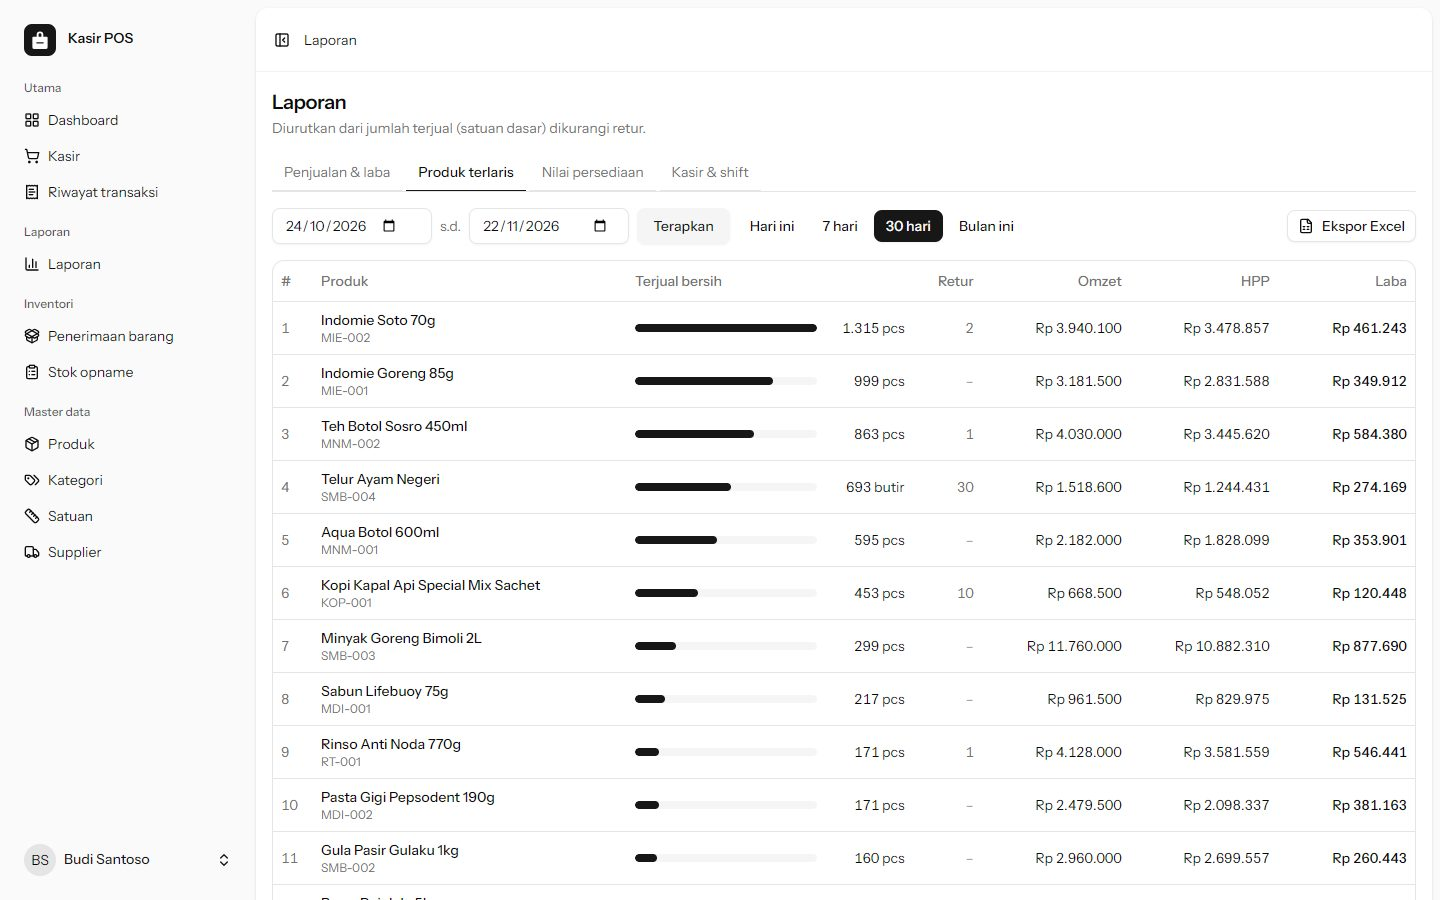
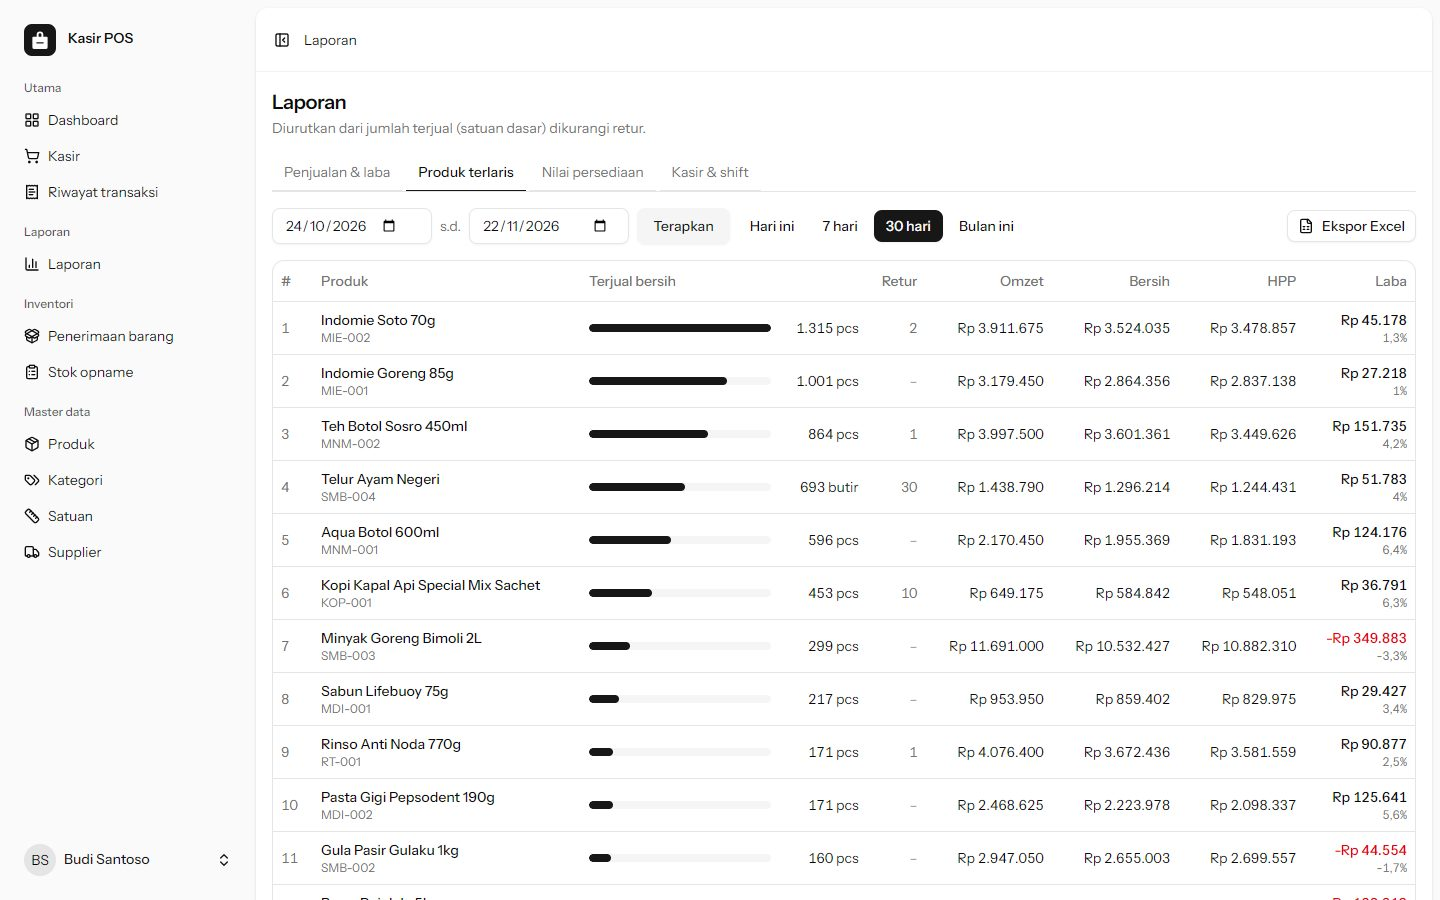
Compute best-seller profit like the sales report: without PPN, net of returns
TopProducts reported profit as line_total - HPP, which kept PPN, ignored
the transaction discount and did not take refunds off revenue, so its
profit column added up to millions while the sales report showed the
real gross profit. Each sale's total and PPN are now split over its lines
(and each refund's PPN over its lines) by largest remainder, giving per
product: revenue paid net of refunds, net sales without PPN, HPP, profit
and margin. Revenue and net sales add up to SalesSummary exactly; HPP is
rounded per product.

The largest-remainder split moves to App\Support\Apportion, which
ProcessSaleReturn::lineShares now uses (behaviour unchanged). The page
and Excel export gain net sales and margin columns.

diff --git a/resources/js/pages/reports/products.tsx b/resources/js/pages/reports/products.tsx
@@ -12,6 +12,7 @@ import {
 } from '@/components/ui/table';
 import { formatQty } from '@/lib/format';
 import { formatRupiah } from '@/lib/money';
+import { cn } from '@/lib/utils';
 import products from '@/routes/products';
 import reports from '@/routes/reports';
 
@@ -24,8 +25,10 @@ export type TopProductRow = {
     returnedQty: number;
     netQty: number;
     revenue: number;
+    netSales: number;
     cogs: number;
     profit: number;
+    margin: number;
 };
 
 export default function ProductsReport({
@@ -73,6 +76,9 @@ export default function ProductsReport({
                                     Omzet
                                 </TableHead>
                                 <TableHead className="text-right">
+                                    Bersih
+                                </TableHead>
+                                <TableHead className="text-right">
                                     HPP
                                 </TableHead>
                                 <TableHead className="text-right">
@@ -84,7 +90,7 @@ export default function ProductsReport({
                             {rows.length === 0 && (
                                 <TableRow>
                                     <TableCell
-                                        colSpan={7}
+                                        colSpan={8}
                                         className="py-10 text-center text-muted-foreground"
                                     >
                                         Belum ada penjualan di rentang tanggal
@@ -135,10 +141,24 @@ export default function ProductsReport({
                                         {formatRupiah(r.revenue)}
                                     </TableCell>
                                     <TableCell className="text-right whitespace-nowrap tabular-nums">
+                                        {formatRupiah(r.netSales)}
+                                    </TableCell>
+                                    <TableCell className="text-right whitespace-nowrap tabular-nums">
                                         {formatRupiah(r.cogs)}
                                     </TableCell>
-                                    <TableCell className="text-right font-medium whitespace-nowrap tabular-nums">
-                                        {formatRupiah(r.profit)}
+                                    <TableCell className="text-right whitespace-nowrap tabular-nums">
+                                        <div
+                                            className={cn(
+                                                'font-medium',
+                                                r.profit < 0 &&
+                                                    'text-destructive',
+                                            )}
+                                        >
+                                            {formatRupiah(r.profit)}
+                                        </div>
+                                        <div className="text-xs text-muted-foreground">
+                                            {`${r.margin.toLocaleString('id-ID')}%`}
+                                        </div>
                                     </TableCell>
                                 </TableRow>
                             ))}
@@ -146,9 +166,11 @@ export default function ProductsReport({
                     </Table>
                 </div>
                 <p className="text-xs text-muted-foreground">
-                    Omzet per produk memakai total baris (setelah diskon item,
-                    sebelum diskon transaksi; termasuk PPN bila harga sudah
-                    termasuk PPN).
+                    Omzet = yang dibayar pelanggan untuk produk ini (bagian dari
+                    total transaksi setelah diskon, termasuk PPN) dikurangi
+                    refund. Bersih = omzet tanpa PPN. Laba = bersih − HPP, sama
+                    seperti laporan penjualan &amp; laba (HPP dibulatkan per
+                    produk, jadi totalnya bisa selisih beberapa rupiah).
                 </p>
             </div>
         </>

diff --git a/app/Reports/TopProducts.php b/app/Reports/TopProducts.php
@@ -3,73 +3,109 @@
 namespace App\Reports;
 
 use App\Enums\SaleStatus;
+use App\Support\Apportion;
 use App\Support\DateRange;
+use App\Support\Decimal;
 use Illuminate\Support\Facades\DB;
 
 /**
  * Best sellers by quantity in base units, net of returns processed in the same period.
- * Revenue is the line totals (after line discounts, before any transaction discount).
+ *
+ * Money follows the sales report (SalesSummary): revenue and netSales add up to its totals
+ * exactly; HPP (4-decimal) is rounded per product, so HPP and profit may differ by a few rupiah.
+ *   revenue   = what customers paid for the product (its share of each sale total, after the
+ *               transaction discount, incl. PPN) − its refunds
+ *   netSales  = the same without PPN (each sale's and refund's PPN shared out the same way)
+ *   profit    = netSales − (HPP sold − HPP returned)
+ * Each sale total and PPN is split across its lines by line total, each refund's PPN across
+ * its lines by amount, all by largest remainder (App\Support\Apportion).
  */
 final class TopProducts
 {
-    /** @return list<array{productId: int, sku: string, name: string, baseUnit: string, soldQty: int, returnedQty: int, netQty: int, revenue: int, cogs: int, profit: int}> */
+    /** @return list<array{productId: int, sku: string, name: string, baseUnit: string, soldQty: int, returnedQty: int, netQty: int, revenue: int, netSales: int, cogs: int, profit: int, margin: float}> */
     public static function build(DateRange $range, int $limit = 20): array
     {
-        $sold = DB::table('sale_items')
+        /** @var array<int, array{qty: int, returnedQty: int, revenue: int, tax: int, cogs: string}> $totals */
+        $totals = [];
+        $add = function (int $productId, string $field, int|string $value) use (&$totals): void {
+            $totals[$productId] ??= ['qty' => 0, 'returnedQty' => 0, 'revenue' => 0, 'tax' => 0, 'cogs' => '0'];
+            if ($field === 'cogs') {
+                $totals[$productId]['cogs'] = Decimal::add($totals[$productId]['cogs'], (string) $value);
+            } else {
+                $totals[$productId][$field] += (int) $value;
+            }
+        };
+
+        $saleLines = DB::table('sale_items')
             ->join('sales', 'sales.id', '=', 'sale_items.sale_id')
             ->where('sales.status', SaleStatus::Completed->value)
             ->where('sales.completed_at', '>=', $range->startsAt())
             ->where('sales.completed_at', '<', $range->endsBefore())
-            ->groupBy('sale_items.product_id')
-            ->selectRaw('sale_items.product_id')
-            ->selectRaw('SUM(sale_items.qty * sale_items.conversion) AS qty')
-            ->selectRaw('SUM(sale_items.line_total) AS revenue')
-            ->selectRaw('SUM(sale_items.cogs) AS cogs')
-            ->get()
-            ->keyBy('product_id');
+            ->orderBy('sale_items.sale_id')
+            ->orderBy('sale_items.id')
+            ->get(['sale_items.sale_id', 'sale_items.product_id', 'sale_items.qty', 'sale_items.conversion',
+                'sale_items.line_total', 'sale_items.cogs', 'sales.total', 'sales.tax_amount']);
 
-        $returned = DB::table('sale_return_items')
+        foreach ($saleLines->groupBy('sale_id') as $lines) {
+            $weights = $lines->map(fn ($l) => (int) $l->line_total)->all();
+            $paid = Apportion::byWeight((int) $lines->first()->total, $weights);
+            $tax = Apportion::byWeight((int) $lines->first()->tax_amount, $weights);
+            foreach ($lines as $i => $line) {
+                $add((int) $line->product_id, 'qty', (int) $line->qty * (int) $line->conversion);
+                $add((int) $line->product_id, 'revenue', $paid[$i]);
+                $add((int) $line->product_id, 'tax', $tax[$i]);
+                $add((int) $line->product_id, 'cogs', (string) ($line->cogs ?? '0'));
+            }
+        }
+
+        $returnLines = DB::table('sale_return_items')
             ->join('sale_returns', 'sale_returns.id', '=', 'sale_return_items.sale_return_id')
             ->where('sale_returns.created_at', '>=', $range->startsAt())
             ->where('sale_returns.created_at', '<', $range->endsBefore())
-            ->groupBy('sale_return_items.product_id')
-            ->selectRaw('sale_return_items.product_id')
-            ->selectRaw('SUM(sale_return_items.qty * sale_return_items.conversion) AS qty')
-            ->selectRaw('SUM(sale_return_items.cogs) AS cogs')
-            ->get()
-            ->keyBy('product_id');
+            ->orderBy('sale_return_items.sale_return_id')
+            ->orderBy('sale_return_items.id')
+            ->get(['sale_return_items.sale_return_id', 'sale_return_items.product_id', 'sale_return_items.qty',
+                'sale_return_items.conversion', 'sale_return_items.amount', 'sale_return_items.cogs', 'sale_returns.tax_amount']);
 
-        $ids = $sold->keys()->merge($returned->keys())->unique()->all();
+        foreach ($returnLines->groupBy('sale_return_id') as $lines) {
+            $tax = Apportion::byWeight((int) $lines->first()->tax_amount, $lines->map(fn ($l) => (int) $l->amount)->all());
+            foreach ($lines as $i => $line) {
+                $add((int) $line->product_id, 'returnedQty', (int) $line->qty * (int) $line->conversion);
+                $add((int) $line->product_id, 'revenue', -(int) $line->amount);
+                $add((int) $line->product_id, 'tax', -$tax[$i]);
+                $add((int) $line->product_id, 'cogs', Decimal::mul('-1', (string) $line->cogs));
+            }
+        }
+
         $products = DB::table('products')
             ->join('units', 'units.id', '=', 'products.base_unit_id')
-            ->whereIn('products.id', $ids)
+            ->whereIn('products.id', array_keys($totals))
             ->get(['products.id', 'products.sku', 'products.name', 'units.name AS unit'])
             ->keyBy('id');
 
         $rows = [];
-        foreach ($ids as $id) {
+        foreach ($totals as $id => $t) {
             $product = $products->get($id);
             if ($product === null) {
                 continue;
             }
-            $s = $sold->get($id);
-            $r = $returned->get($id);
-            $soldQty = (int) ($s->qty ?? 0);
-            $returnedQty = (int) ($r->qty ?? 0);
-            $revenue = Sql::rupiah($s->revenue ?? 0);
-            $cogs = Sql::rupiah($s->cogs ?? 0) - Sql::rupiah($r->cogs ?? 0);
+            $netSales = $t['revenue'] - $t['tax'];
+            $cogs = (int) Decimal::round($t['cogs'], 0);
+            $profit = $netSales - $cogs;
 
             $rows[] = [
-                'productId' => (int) $id,
+                'productId' => $id,
                 'sku' => (string) $product->sku,
                 'name' => (string) $product->name,
                 'baseUnit' => (string) $product->unit,
-                'soldQty' => $soldQty,
-                'returnedQty' => $returnedQty,
-                'netQty' => $soldQty - $returnedQty,
-                'revenue' => $revenue,
+                'soldQty' => $t['qty'],
+                'returnedQty' => $t['returnedQty'],
+                'netQty' => $t['qty'] - $t['returnedQty'],
+                'revenue' => $t['revenue'],
+                'netSales' => $netSales,
                 'cogs' => $cogs,
-                'profit' => $revenue - $cogs,
+                'profit' => $profit,
+                'margin' => $netSales === 0 ? 0.0 : round($profit / $netSales * 100, 1),
             ];
         }
 

diff --git a/tests/Feature/Reports/ReportsTest.php b/tests/Feature/Reports/ReportsTest.php
@@ -4,6 +4,7 @@ use App\Actions\Sales\CloseShift;
 use App\Actions\Sales\CompleteSale;
 use App\Actions\Sales\OpenShift;
 use App\Actions\Sales\ProcessSaleReturn;
+use App\Enums\DiscountType;
 use App\Enums\Role;
 use App\Models\Category;
 use App\Models\Product;
@@ -111,6 +112,33 @@ it('ranks products by quantity sold net of returns', function () {
     expect($rows)->toHaveCount(2)
         ->and($rows[0])->toMatchArray(['name' => 'Mie', 'soldQty' => 3, 'returnedQty' => 0, 'netQty' => 3])
         ->and($rows[1])->toMatchArray(['name' => 'Aqua', 'soldQty' => 2, 'returnedQty' => 1, 'netQty' => 1, 'cogs' => 8000]);
+});
+
+it('computes best-seller profit without PPN and net of returns, like the sales report', function () {
+    $rows = collect(TopProducts::build(DateRange::of('2026-11-20', '2026-11-21')))->keyBy('name');
+
+    // Aqua: paid 22.200 (PPN 2.200), 11.100 refunded (PPN 1.100); HPP 16.000 − 8.000 returned.
+    expect($rows['Aqua'])->toMatchArray(['revenue' => 11100, 'netSales' => 10000, 'cogs' => 8000, 'profit' => 2000])
+        ->and($rows['Mie'])->toMatchArray(['revenue' => 9990, 'netSales' => 9000, 'cogs' => 6000, 'profit' => 3000]);
+});
+
+it('apportions the transaction discount and PPN so best sellers add up to the sales report', function () {
+    Carbon::setTestNow('2026-11-21 10:00:00');
+    // 11.100 + 2 × 3.330 = 17.760, minus 7% → odd rupiah to split across the two lines.
+    app(CompleteSale::class)->handle($this->andi, [
+        ['product_unit_id' => $this->aquaUnit->id, 'qty' => 1],
+        ['product_unit_id' => $this->mieUnit->id, 'qty' => 2],
+    ], paidAmount: 20000, discountType: DiscountType::Percent, discountValue: 7);
+
+    $range = DateRange::of('2026-11-20', '2026-11-21');
+    $rows = TopProducts::build($range);
+    $totals = SalesSummary::build($range)['totals'];
+
+    expect(array_sum(array_column($rows, 'revenue')))->toBe($totals['gross'] - $totals['refunds'])
+        ->and(array_sum(array_column($rows, 'netSales')))->toBe($totals['netSales'])
+        // HPP is rounded per product, so allow one rupiah per row.
+        ->and(abs(array_sum(array_column($rows, 'cogs')) - $totals['cogs']))->toBeLessThanOrEqual(count($rows))
+        ->and(abs(array_sum(array_column($rows, 'profit')) - $totals['grossProfit']))->toBeLessThanOrEqual(count($rows));
 });
 
 it('values stock at the moving-average HPP, per product and category', function () {

diff --git a/app/Http/Controllers/ReportExportController.php b/app/Http/Controllers/ReportExportController.php
@@ -53,7 +53,7 @@ class ReportExportController extends Controller
 
         return (new Spreadsheet)->sheet(
             'Produk terlaris',
-            self::title('Produk terlaris', $range, 'Jumlah dalam satuan dasar, dikurangi retur pada periode yang sama.'),
+            self::title('Produk terlaris', $range, 'Jumlah dalam satuan dasar, dikurangi retur pada periode yang sama. Laba kotor tanpa PPN, sama dengan laporan penjualan.'),
             [
                 ['label' => 'Peringkat', 'format' => Spreadsheet::NUMBER, 'width' => 9],
                 ['label' => 'SKU', 'width' => 12],
@@ -62,12 +62,14 @@ class ReportExportController extends Controller
                 ['label' => 'Terjual', 'format' => Spreadsheet::NUMBER, 'width' => 10],
                 ['label' => 'Retur', 'format' => Spreadsheet::NUMBER, 'width' => 10],
                 ['label' => 'Bersih', 'format' => Spreadsheet::NUMBER, 'width' => 10],
-                ['label' => 'Omzet', 'format' => Spreadsheet::RUPIAH],
+                ['label' => 'Omzet (incl. PPN)', 'format' => Spreadsheet::RUPIAH],
+                ['label' => 'Penjualan bersih', 'format' => Spreadsheet::RUPIAH],
                 ['label' => 'HPP', 'format' => Spreadsheet::RUPIAH],
-                ['label' => 'Laba', 'format' => Spreadsheet::RUPIAH],
+                ['label' => 'Laba kotor', 'format' => Spreadsheet::RUPIAH],
+                ['label' => 'Margin', 'format' => Spreadsheet::PERCENT, 'width' => 9],
             ],
             array_map(fn (array $r, int $i) => [
-                $i + 1, $r['sku'], $r['name'], $r['baseUnit'], $r['soldQty'], $r['returnedQty'], $r['netQty'], $r['revenue'], $r['cogs'], $r['profit'],
+                $i + 1, $r['sku'], $r['name'], $r['baseUnit'], $r['soldQty'], $r['returnedQty'], $r['netQty'], $r['revenue'], $r['netSales'], $r['cogs'], $r['profit'], $r['margin'],
             ], $rows, array_keys($rows)),
         )->download(self::filename('produk-terlaris', $range));
     }

diff --git a/app/Actions/Sales/ProcessSaleReturn.php b/app/Actions/Sales/ProcessSaleReturn.php
@@ -11,6 +11,7 @@ use App\Models\User;
 use App\Services\Auth\OwnerPin;
 use App\Services\Documents\DocumentNumber;
 use App\Services\Inventory\StockLedger;
+use App\Support\Apportion;
 use App\Support\Decimal;
 use Illuminate\Support\Facades\DB;
 use Illuminate\Validation\ValidationException;
@@ -166,30 +167,7 @@ final class ProcessSaleReturn
      */
     public static function lineShares(Sale $sale, array $items): array
     {
-        $subtotal = array_sum(array_map(fn (SaleItem $i) => $i->line_total, $items));
-        if ($subtotal === 0) {
-            return array_map(fn () => 0, $items);
-        }
-
-        $shares = [];
-        $remainders = [];
-        foreach ($items as $id => $item) {
-            $exact = $sale->total * $item->line_total;
-            $shares[$id] = intdiv($exact, $subtotal);
-            $remainders[$id] = $exact % $subtotal;
-        }
-
-        $left = $sale->total - array_sum($shares);
-        arsort($remainders);
-        foreach (array_keys($remainders) as $id) {
-            if ($left <= 0) {
-                break;
-            }
-            $shares[$id]++;
-            $left--;
-        }
-
-        return $shares;
+        return Apportion::byWeight($sale->total, array_map(fn (SaleItem $i) => $i->line_total, $items));
     }
 
     /**

diff --git a/app/Support/Apportion.php b/app/Support/Apportion.php
@@ -1,0 +1,45 @@
+<?php
+
+namespace App\Support;
+
+/**
+ * Splits a whole-rupiah amount across weights, proportionally and by largest remainder, so
+ * every share is a whole rupiah and the shares add up to the amount exactly. Ties keep the
+ * input order. Used for refunds (sale total over its lines) and for per-product reports.
+ */
+final class Apportion
+{
+    /**
+     * @template TKey of array-key
+     *
+     * @param  array<TKey, int>  $weights  non-negative
+     * @return array<TKey, int>
+     */
+    public static function byWeight(int $amount, array $weights): array
+    {
+        $sum = array_sum($weights);
+        if ($sum === 0) {
+            return array_map(fn () => 0, $weights);
+        }
+
+        $shares = [];
+        $remainders = [];
+        foreach ($weights as $key => $weight) {
+            $exact = $amount * $weight;
+            $shares[$key] = intdiv($exact, $sum);
+            $remainders[$key] = $exact % $sum;
+        }
+
+        $left = $amount - array_sum($shares);
+        arsort($remainders);
+        foreach (array_keys($remainders) as $key) {
+            if ($left <= 0) {
+                break;
+            }
+            $shares[$key]++;
+            $left--;
+        }
+
+        return $shares;
+    }
+}

diff --git a/docs/DESIGN.md b/docs/DESIGN.md
@@ -116,7 +116,6 @@ Implementasi: `spatie/laravel-permission`, role tetap (tanpa UI pengaturan permi
 
 ### Isu terbuka
 
-- Laporan **produk terlaris** menghitung laba sebagai `line_total − HPP`: masih termasuk PPN, sebelum diskon transaksi, dan omzet tidak dikurangi retur. Akibatnya tidak konsisten dengan laba kotor di laporan penjualan (§9.1).
 - Harga beli di `CatalogSeeder` hampir sama dengan harga jual tanpa PPN untuk satuan besar (dus/karung), sehingga data demo menunjukkan margin kotor sekitar 0,3%. Ini masalah data demo, bukan perhitungan.
 
 ## 9. Keputusan implementasi (2026-11-22)
@@ -126,6 +125,7 @@ Implementasi: `spatie/laravel-permission`, role tetap (tanpa UI pengaturan permi
 - Laba kotor = **penjualan bersih tanpa PPN** − HPP. PPN dipungut untuk negara, jadi bukan pendapatan toko.
 - Penjualan bersih = (total penjualan − PPN penjualan) − (refund − PPN refund). HPP = HPP barang terjual − HPP barang yang diretur (memakai HPP baris aslinya).
 - Implementasi: `app/Reports/SalesSummary.php`, dipakai juga oleh dashboard.
+- Laporan **produk terlaris** memakai aturan yang sama per produk (`app/Reports/TopProducts.php`): total dan PPN setiap transaksi dibagi ke barisnya menurut `line_total`, PPN setiap retur dibagi menurut nilai refund per baris, semuanya dengan _largest remainder_ (`App\Support\Apportion`, juga dipakai retur di §9.2). Omzet = yang dibayar pelanggan dikurangi refund (termasuk PPN); penjualan bersih = omzet tanpa PPN; laba = bersih − HPP. Jumlah omzet dan penjualan bersih semua produk sama persis dengan laporan penjualan; HPP dibulatkan per produk, jadi total HPP/laba bisa selisih beberapa rupiah.
 
 ### 9.2 Retur
 
